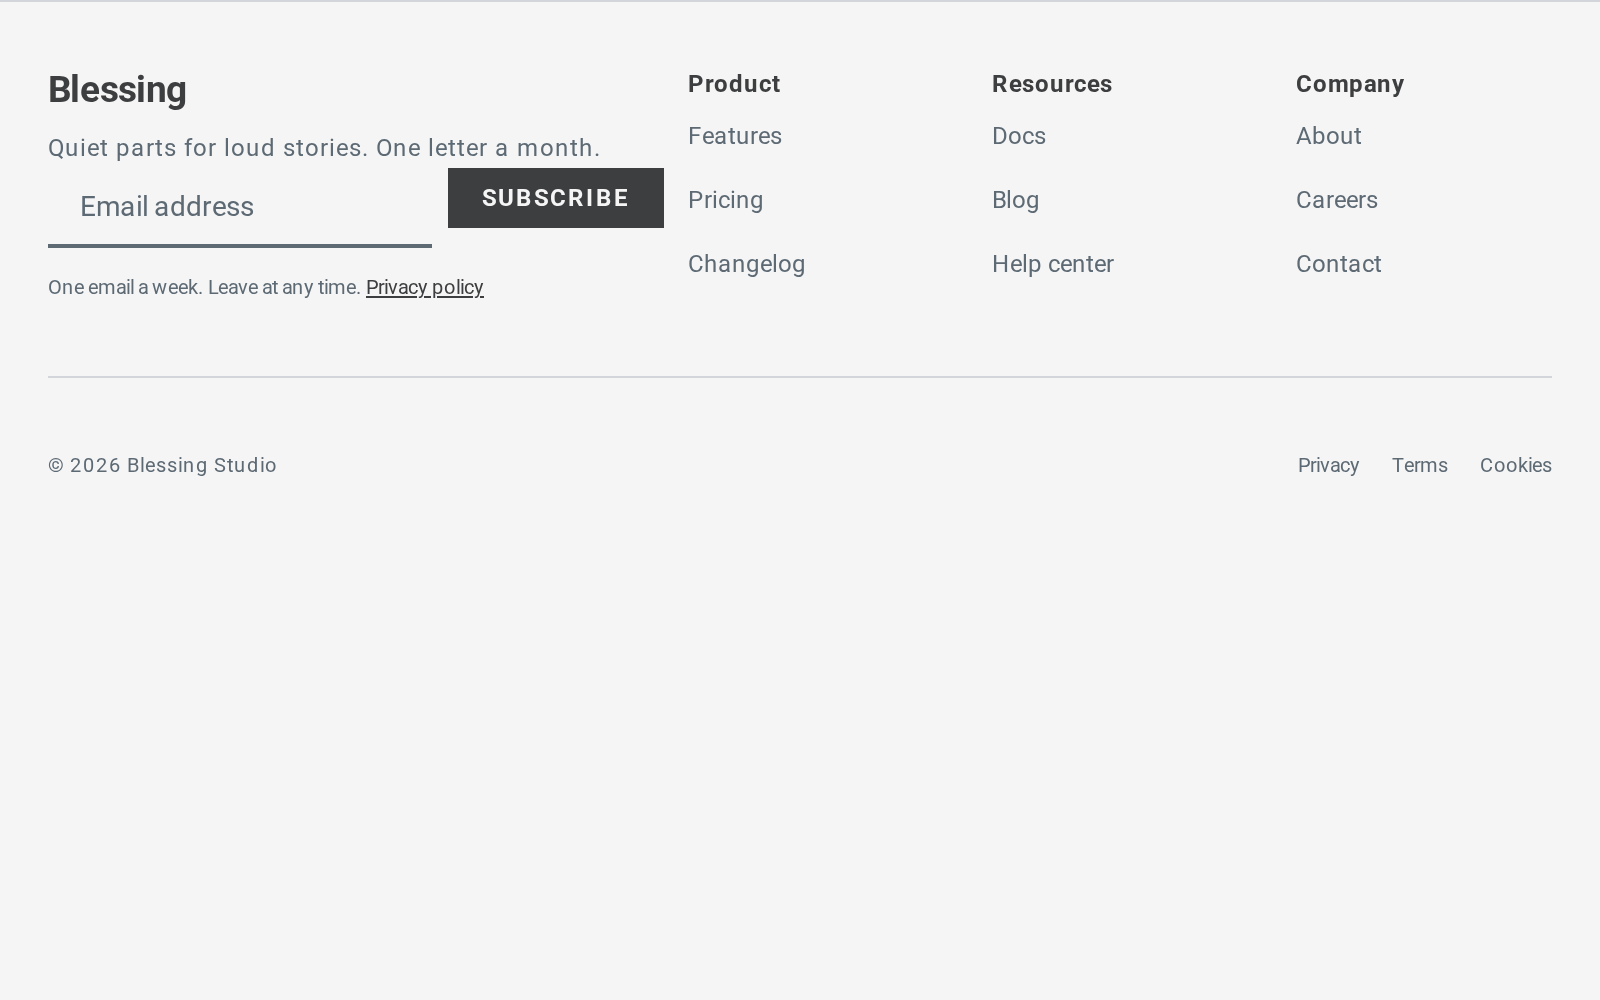
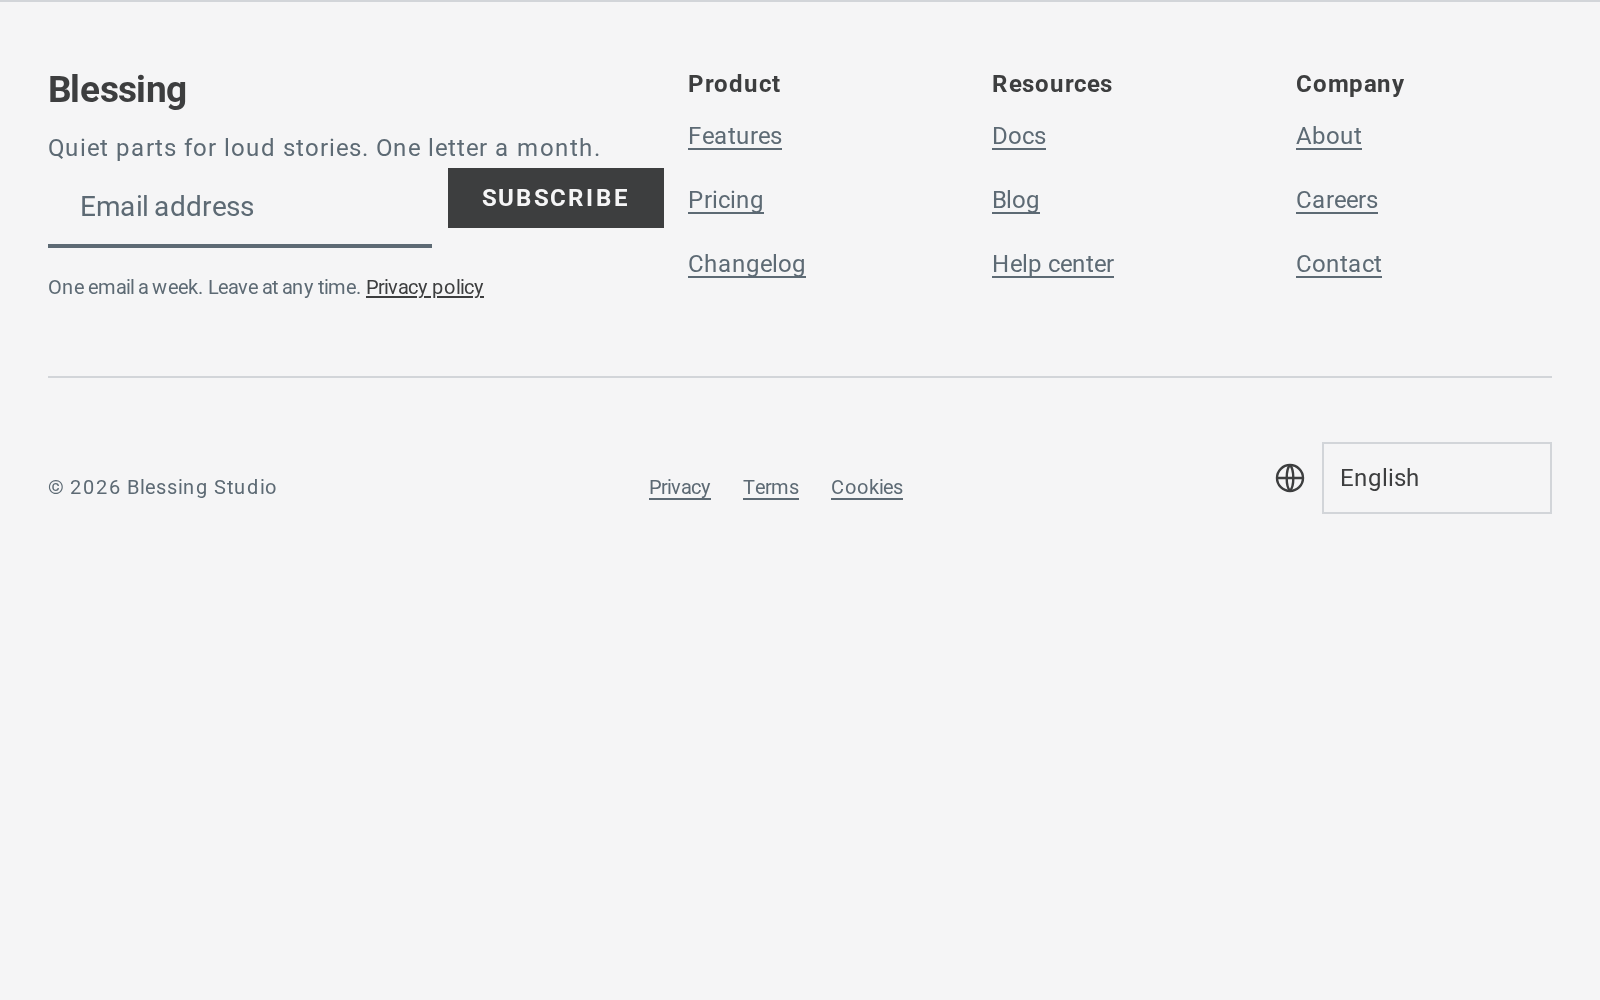
refactor(blocks): use BlessLink, BlessGrid, and BlessLanguageSwitcher
The footer gets a language switcher, muted text links, and a column grid.
The sign-in links use BlessLink, so they no longer show the accent color.
Six blocks use BlessGrid in place of their own grid CSS.

diff --git a/docs/blocks/footer/index.vue b/docs/blocks/footer/index.vue
@@ -14,32 +14,40 @@
           @subscribe="subscribe"
         />
       </div>
-      <nav aria-label="Footer" class="site-footer__cols">
+      <BlessGrid as="nav" aria-label="Footer" :columns="3" min="8rem" :gap="6">
         <div v-for="c in columns" :key="c.title">
           <BlessText as="h2" size="sm" weight="bold">{{ c.title }}</BlessText>
           <ul role="list" class="site-footer__list">
             <li v-for="l in c.links" :key="l.label">
-              <a :href="l.href">{{ l.label }}</a>
+              <BlessLink :href="l.href" muted>{{ l.label }}</BlessLink>
             </li>
           </ul>
         </div>
-      </nav>
+      </BlessGrid>
     </div>
     <BlessSeparator />
     <div class="site-footer__bottom">
       <BlessText size="xs" muted>© {{ year }} Blessing Studio</BlessText>
       <ul role="list" class="site-footer__legal">
         <li v-for="l in legal" :key="l.label">
-          <a :href="l.href">{{ l.label }}</a>
+          <BlessLink :href="l.href" muted>{{ l.label }}</BlessLink>
         </li>
       </ul>
+      <BlessLanguageSwitcher v-model="lang" :languages />
     </div>
   </footer>
 </template>
 
 <script setup lang="ts">
 import { ref } from "vue";
-import { BlessNewsletterSignup, BlessSeparator, BlessText } from "blessing-ui";
+import {
+  BlessGrid,
+  BlessLanguageSwitcher,
+  BlessLink,
+  BlessNewsletterSignup,
+  BlessSeparator,
+  BlessText,
+} from "blessing-ui";
 import { mockFooterApi as api } from "./api";
 
 const columns = [
@@ -74,6 +82,12 @@ const legal = [
   { label: "Cookies", href: "#cookies" },
 ];
 const year = new Date().getFullYear();
+// each name in its own language. On a change, load the words and set lang on <html>
+const languages = [
+  { code: "en", label: "English" },
+  { code: "id", label: "Bahasa Indonesia" },
+];
+const lang = ref("en");
 
 const email = ref("");
 const status = ref<"idle" | "loading" | "done">("idle");
@@ -111,11 +125,6 @@ async function subscribe(address: string) {
   color: var(--bless-color-text);
   text-decoration: none;
 }
-.site-footer__cols {
-  display: grid;
-  grid-template-columns: repeat(3, minmax(0, 1fr));
-  gap: var(--bless-space-6);
-}
 .site-footer__list,
 .site-footer__legal {
   margin: 0;
@@ -125,10 +134,6 @@ async function subscribe(address: string) {
 }
 .site-footer__list li {
   padding: var(--bless-space-1) 0;
-}
-.site-footer__list a,
-.site-footer__legal a {
-  color: var(--bless-color-text-muted);
 }
 .site-footer__bottom {
   display: flex;
@@ -149,11 +154,6 @@ async function subscribe(address: string) {
   }
   .site-footer__top {
     grid-template-columns: minmax(0, 1fr);
-  }
-}
-@media (max-width: 420px) {
-  .site-footer__cols {
-    grid-template-columns: repeat(2, minmax(0, 1fr));
   }
 }
 </style>

diff --git a/docs/blocks/checkout/index.vue b/docs/blocks/checkout/index.vue
@@ -30,14 +30,14 @@
             <BlessField label="Card number">
               <BlessCardInput v-model="card.number" validate />
             </BlessField>
-            <div class="checkout__row">
+            <BlessGrid :columns="2">
               <BlessField label="Expiry date" description="MM/YY">
                 <BlessInput v-model="card.expiry" inputmode="numeric" autocomplete="cc-exp" />
               </BlessField>
               <BlessField label="Security code">
                 <BlessInput v-model="card.cvc" inputmode="numeric" autocomplete="cc-csc" />
               </BlessField>
-            </div>
+            </BlessGrid>
             <BlessText as="p" size="xs" muted
               >Test cards: 4242 4242 4242 4242 pays, 4000 0000 0000 0002 is declined.</BlessText
             >
@@ -87,6 +87,7 @@ import {
   BlessCouponInput,
   BlessDeliveryPicker,
   BlessField,
+  BlessGrid,
   BlessInput,
   BlessOrderSummary,
   BlessSteps,
@@ -153,11 +154,6 @@ watch([step, orderId], () => {
 }
 .checkout__card {
   display: grid;
-  gap: var(--bless-space-4);
-}
-.checkout__row {
-  display: grid;
-  grid-template-columns: repeat(2, minmax(0, 1fr));
   gap: var(--bless-space-4);
 }
 .checkout__actions {

diff --git a/docs/blocks/signin/index.vue b/docs/blocks/signin/index.vue
@@ -36,13 +36,13 @@
       </BlessField>
       <div class="signin__row">
         <BlessCheckbox v-model="remember">Remember me</BlessCheckbox>
-        <a href="#" class="signin__link">Forgot password?</a>
+        <BlessLink href="#">Forgot password?</BlessLink>
       </div>
       <BlessButton type="submit" :loading="busy" block>Sign in</BlessButton>
       <BlessSeparator label="or" class="signin__sep" />
       <BlessButton variant="outline" block>Continue with GitHub</BlessButton>
       <BlessText as="p" size="xs" muted class="signin__foot"
-        >No account? <a href="#">Create one</a></BlessText
+        >No account? <BlessLink href="#">Create one</BlessLink></BlessText
       >
     </BlessForm>
   </div>
@@ -56,6 +56,7 @@ import {
   BlessField,
   BlessForm,
   BlessInput,
+  BlessLink,
   BlessPasswordInput,
   BlessSeparator,
   BlessText,
@@ -94,12 +95,6 @@ watch(done, async (d) => {
   justify-content: space-between;
   margin-bottom: var(--bless-space-6);
   font-size: var(--bless-text-sm);
-}
-.signin__link,
-.signin__foot a {
-  color: var(--bless-color-accent-text);
-  text-decoration: underline;
-  text-underline-offset: 2px;
 }
 .signin__sep {
   margin: var(--bless-space-6) 0;

diff --git a/docs/blocks/billing/index.vue b/docs/blocks/billing/index.vue
@@ -14,7 +14,7 @@
           >Pay {{ overdue[0].number }}</BlessButton
         >
       </BlessAlert>
-      <div class="billing__cards">
+      <BlessGrid min="16rem" class="billing__cards">
         <BlessCard label="Plan">
           <div class="billing__card">
             <BlessText as="h2" size="lg" weight="bold">{{ plan?.name }}</BlessText>
@@ -59,7 +59,7 @@
             <BlessText as="p" size="sm" muted>Expires {{ account.card.expires }}</BlessText>
           </div>
         </BlessCard>
-      </div>
+      </BlessGrid>
       <section class="billing__bills" aria-labelledby="billing-bills">
         <BlessText id="billing-bills" as="h2" size="md" weight="bold">Invoices</BlessText>
         <BlessTable :columns :rows row-key="number">
@@ -123,6 +123,7 @@ import {
   BlessAlertDialog,
   BlessButton,
   BlessCard,
+  BlessGrid,
   BlessInvoice,
   BlessModal,
   BlessQuotaUsage,
@@ -223,11 +224,6 @@ const onResume = () => run(resume);
 }
 .billing__overdue p {
   margin: 0 0 var(--bless-space-3);
-}
-.billing__cards {
-  display: grid;
-  grid-template-columns: repeat(auto-fit, minmax(16rem, 1fr));
-  gap: var(--bless-space-4);
 }
 .billing__card {
   display: grid;

diff --git a/docs/blocks/dashboard/index.vue b/docs/blocks/dashboard/index.vue
@@ -20,12 +20,12 @@
           <BlessAvatar name="Tomoya Aki" size="sm" />
         </template>
       </BlessToolbar>
-      <div class="dash__stats" :aria-busy="loading">
+      <BlessGrid min="150px" class="dash__stats" :aria-busy="loading">
         <template v-if="data && !loading">
           <StatCard v-for="s in data.stats" :key="s.label" :stat="s" />
         </template>
         <BlessSkeleton v-for="i in 4" v-else :key="i" height="88px" />
-      </div>
+      </BlessGrid>
       <BlessChart
         title="Daily revenue"
         :description="`Last ${days} days: a rise with a dip in the middle`"
@@ -62,9 +62,10 @@ import {
   BlessBadge,
   BlessButton,
   BlessChart,
+  BlessGrid,
   BlessSidebarNav,
-  BlessTable,
   BlessSkeleton,
+  BlessTable,
   BlessText,
   BlessToggle,
   BlessToggleGroup,
@@ -129,11 +130,6 @@ const columns: BlessColumn<Order>[] = [
 }
 .dash__bar {
   margin: calc(-1 * var(--bless-space-2)) 0;
-}
-.dash__stats {
-  display: grid;
-  grid-template-columns: repeat(auto-fit, minmax(150px, 1fr));
-  gap: var(--bless-space-4);
 }
 @media (max-width: 800px) {
   .dash {

diff --git a/docs/blocks/settings/index.vue b/docs/blocks/settings/index.vue
@@ -7,10 +7,10 @@
         <BlessAvatar :name="form.name" size="lg" />
         <BlessButton size="sm" variant="outline">Change photo</BlessButton>
       </div>
-      <div class="settings__grid">
+      <BlessGrid min="220px">
         <BlessField label="Name"><BlessInput v-model="form.name" /></BlessField>
         <BlessField label="Email"><BlessInput v-model="form.email" type="email" /></BlessField>
-      </div>
+      </BlessGrid>
       <BlessField label="Bio" description="Shown on your public profile."
         ><BlessTextarea v-model="form.bio" :rows="2" autogrow
       /></BlessField>
@@ -57,6 +57,7 @@ import {
   BlessCheckbox,
   BlessField,
   BlessForm,
+  BlessGrid,
   BlessInput,
   BlessPanel,
   BlessSelect,
@@ -113,11 +114,6 @@ function discard() {
   align-items: center;
   gap: var(--bless-space-4);
   margin-bottom: var(--bless-space-4);
-}
-.settings__grid {
-  display: grid;
-  grid-template-columns: repeat(auto-fit, minmax(220px, 1fr));
-  gap: var(--bless-space-4);
 }
 .settings :deep(.bless-field) {
   margin-bottom: var(--bless-space-4);

diff --git a/docs/blocks/pricing/index.vue b/docs/blocks/pricing/index.vue
@@ -4,7 +4,7 @@
     <div class="pricing__switch">
       <BlessSwitch v-model="yearly">Bill yearly <BlessBadge>2 months free</BlessBadge></BlessSwitch>
     </div>
-    <div class="pricing__grid">
+    <BlessGrid min="220px" class="pricing__grid">
       <BlessCard
         v-for="p in plans"
         :key="p.name"
@@ -30,7 +30,7 @@
           <li v-for="f in p.features" :key="f"><span aria-hidden="true">✓</span> {{ f }}</li>
         </ul>
       </BlessCard>
-    </div>
+    </BlessGrid>
   </div>
 </template>
 
@@ -40,6 +40,7 @@ import {
   BlessBadge,
   BlessButton,
   BlessCard,
+  BlessGrid,
   BlessSeparator,
   BlessSwitch,
   BlessText,
@@ -85,9 +86,6 @@ const price = (m: number) =>
   margin: var(--bless-space-4) 0 var(--bless-space-8);
 }
 .pricing__grid {
-  display: grid;
-  grid-template-columns: repeat(auto-fit, minmax(220px, 1fr));
-  gap: var(--bless-space-4);
   padding-top: var(--bless-space-3);
 }
 .pricing__price {

diff --git a/docs/blocks/landing/index.vue b/docs/blocks/landing/index.vue
@@ -31,12 +31,12 @@
     </section>
 
     <section class="landing__numbers" aria-label="In numbers">
-      <dl>
+      <BlessGrid as="dl" min="180px" :gap="6">
         <div v-for="n in numbers" :key="n.label">
           <dt>{{ n.label }}</dt>
           <dd><BlessCountUp :value="n.value" :options="n.options" appear locale="en-US" /></dd>
         </div>
-      </dl>
+      </BlessGrid>
     </section>
 
     <section class="landing__band" aria-labelledby="landing-quotes">
@@ -70,6 +70,7 @@ import {
   BlessButton,
   BlessCountUp,
   BlessFeatureGrid,
+  BlessGrid,
   BlessLogoCloud,
   BlessTestimonials,
   BlessText,
@@ -203,9 +204,6 @@ const faq = [
   stroke-linejoin: round;
 }
 .landing__numbers dl {
-  display: grid;
-  grid-template-columns: repeat(auto-fit, minmax(180px, 1fr));
-  gap: var(--bless-space-6);
   margin: 0;
   padding-block: var(--bless-space-6);
   border-block: 1px solid var(--bless-color-border);

diff --git a/docs/blocks/footer/meta.ts b/docs/blocks/footer/meta.ts
@@ -3,7 +3,14 @@ export default {
   group: "Site frame",
   order: 27,
   summary:
-    "The wordmark with a newsletter signup, three columns of links, and a fine-print row with the copyright and the legal links. The columns stack on a phone.",
-  components: ["BlessNewsletterSignup", "BlessText", "BlessSeparator"],
+    "The wordmark with a newsletter signup, three columns of links, and a fine-print row with the copyright, the legal links, and the language. The columns drop to two, then one, on a narrow screen.",
+  components: [
+    "BlessNewsletterSignup",
+    "BlessGrid",
+    "BlessLink",
+    "BlessLanguageSwitcher",
+    "BlessText",
+    "BlessSeparator",
+  ],
   height: "320px",
 };

diff --git a/docs/blocks/checkout/meta.ts b/docs/blocks/checkout/meta.ts
@@ -5,6 +5,7 @@ export default {
   summary:
     "Three steps from cart to order: the address, a delivery time, and the card. The order summary with a discount code stays next to the steps, and each step says what is missing before it goes on.",
   components: [
+    "BlessGrid",
     "BlessSteps",
     "BlessAddressFields",
     "BlessDeliveryPicker",

diff --git a/docs/blocks/billing/meta.ts b/docs/blocks/billing/meta.ts
@@ -5,6 +5,7 @@ export default {
   summary:
     "The plan, the usage, the card, and the invoices of an account. An overdue invoice shows at the top with a way to pay it. A smaller plan that cannot hold your seats or files says what to remove first.",
   components: [
+    "BlessGrid",
     "BlessCard",
     "BlessQuotaUsage",
     "BlessTable",

diff --git a/docs/blocks/landing/meta.ts b/docs/blocks/landing/meta.ts
@@ -5,6 +5,7 @@ export default {
   summary:
     "A product landing page: a hero with two calls to action, a logo row, the features, numbers that count up, quotes from customers, an FAQ, and a closing call to action.",
   components: [
+    "BlessGrid",
     "BlessButton",
     "BlessText",
     "BlessLogoCloud",
